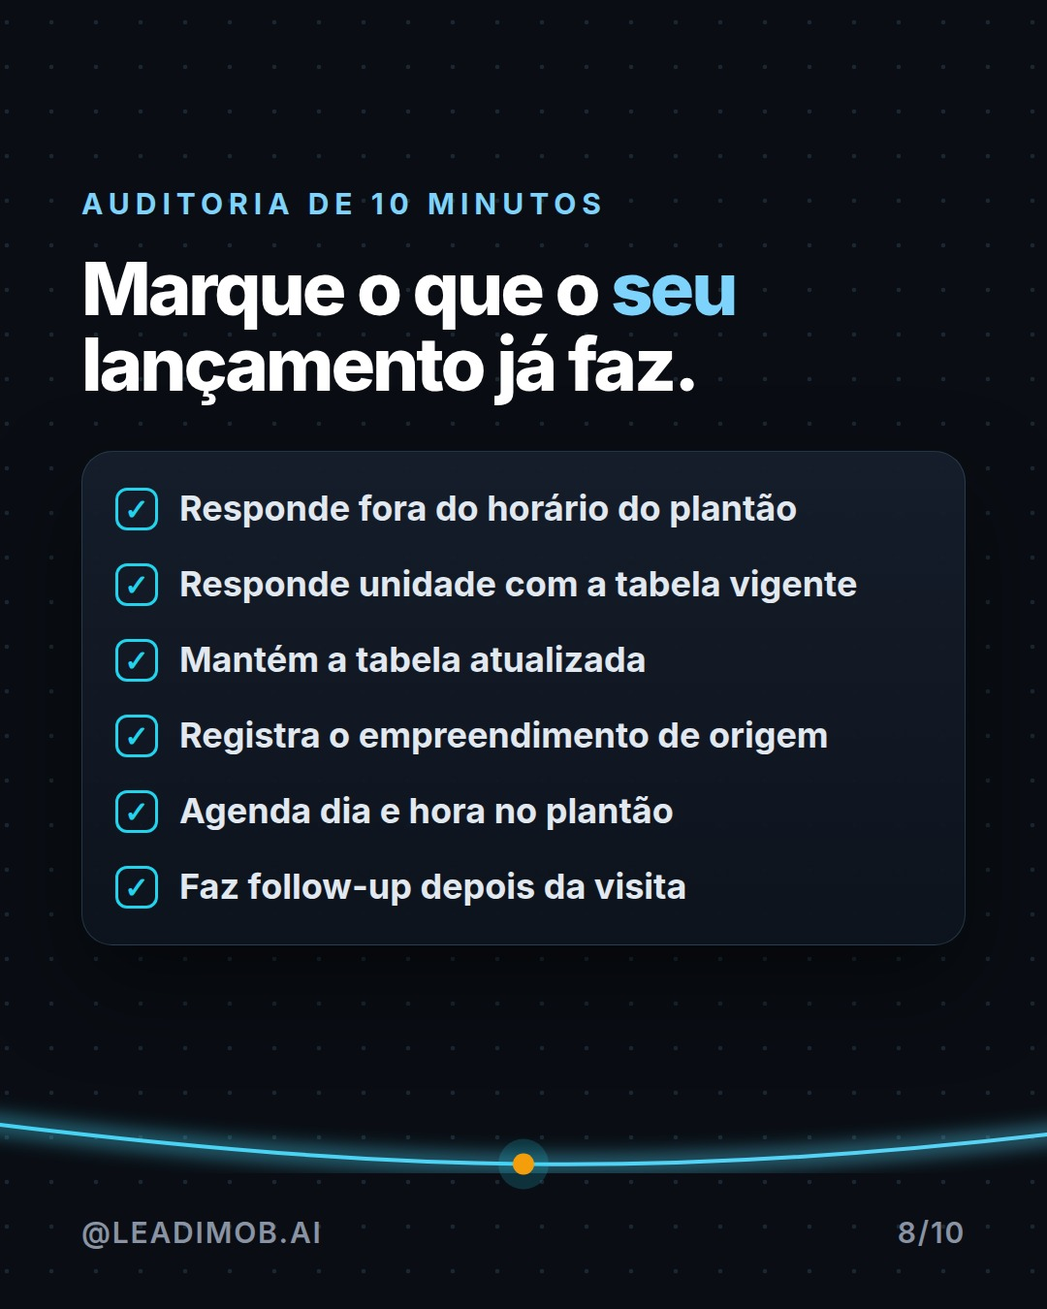
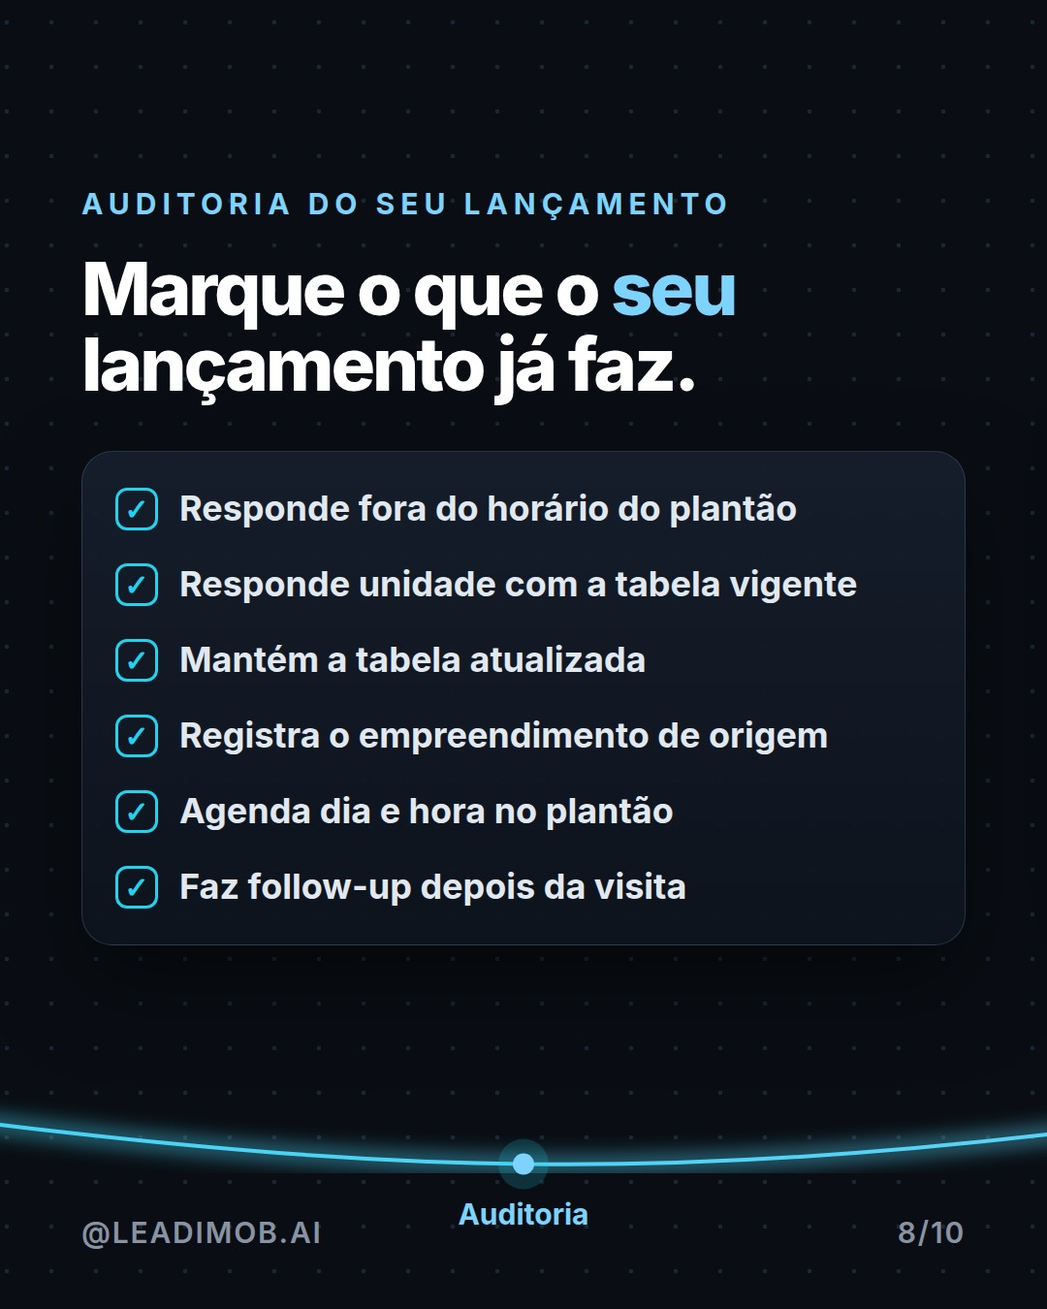
06/10: carrossel refeito com estrutura própria (parcial)
Claude-Session: https://claude.ai/code/session_018r7VijXCsT7Rsbfxa2wopL

Changed region(s): [[0.3667, 0.1244, 0.6417, 0.1867], [0.4278, 0.8711, 0.5806, 0.9333], [0.6722, 0.1244, 0.7028, 0.1867]]

diff --git a/instagram/2026-10-06/src/c1-index.html b/instagram/2026-10-06/src/c1-index.html
@@ -17,7 +17,7 @@ body{background:#0A0E14;width:10800px;height:1350px;overflow:hidden;font-family:
 .kick{font:700 30px/1 IN;letter-spacing:.2em;text-transform:uppercase;color:#7DD3FC}
 .h1{font:900 128px/0.96 IN;letter-spacing:-.055em}
 .h2{font:800 76px/1.02 IN;letter-spacing:-.04em}
-.p{font:500 38px/1.4 IN;color:#C9D2E0}
+.p{font:500 40px/1.38 IN;color:#C9D2E0}
 .ghost{position:absolute;font:900 520px/1 IN;letter-spacing:-.06em;color:transparent;-webkit-text-stroke:2px rgba(125,211,252,.16);right:40px;top:40px}
 .foot{position:absolute;left:84px;right:84px;bottom:64px;display:flex;justify-content:space-between;align-items:center;font:600 30px/1 IN;color:#8A93A3;letter-spacing:.06em}
 .card{background:linear-gradient(180deg,rgba(22,30,44,.96),rgba(14,20,30,.96));border:1px solid rgba(125,211,252,.18);border-radius:32px;box-shadow:0 40px 90px rgba(0,0,0,.5)}
@@ -43,6 +43,18 @@ body{background:#0A0E14;width:10800px;height:1350px;overflow:hidden;font-family:
 .row:last-child{border-bottom:0}.row span:first-child{color:#C9D2E0}
 .chk{display:flex;align-items:center;gap:22px;font:700 36px/1.2 IN;padding:17px 0;color:#E2E8F0}
 .chk b{flex:none;width:44px;height:44px;border-radius:12px;border:3px solid #22D3EE;display:flex;align-items:center;justify-content:center;color:#22D3EE;font:900 30px/1 IN}
+.col{flex:1;border-radius:28px;padding:26px 24px;background:#121a27;border:1px solid rgba(125,211,252,.16)}
+.col.ok{border-color:rgba(52,211,153,.55)}.col.bad{border-color:rgba(245,158,11,.55)}
+.lab{font:800 30px/1 IN;letter-spacing:.08em;text-transform:uppercase;margin-bottom:22px}
+.sm{border-radius:22px;padding:18px 22px 10px;font:500 32px/1.3 IN}
+.ex{font:700 30px/1 IN;letter-spacing:.14em;text-transform:uppercase;color:#8A93A3;margin-bottom:18px}
+.tag{display:inline-block;font:700 30px/1 IN;padding:10px 18px;border-radius:12px}
+.fld{display:flex;justify-content:space-between;align-items:center;font:600 34px/1 IN;padding:22px 0;border-bottom:1px solid rgba(255,255,255,.08)}
+.fld:last-child{border-bottom:0}
+.dash{border:2px dashed rgba(245,158,11,.7);color:#FBBF24;border-radius:12px;padding:10px 18px;font:700 30px/1 IN}
+.st{display:flex;align-items:center;gap:26px;padding:12px 0}.st+.st{border-top:1px solid rgba(255,255,255,.08)}
+.st .ic{flex:none;width:60px;height:60px;border-radius:20px;background:rgba(52,211,153,.14);border:2px solid rgba(52,211,153,.7);color:#6EE7B7;display:flex;align-items:center;justify-content:center;font:900 36px/1 IN}
+.st div:last-child{font:700 38px/1.2 IN}
 </style></head><body><div id="strip">
 <div class="bg"></div>
 <div class="glow" style="left:-300px;top:-400px;width:1400px;height:1400px;background:radial-gradient(circle,rgba(37,99,235,.30),transparent 62%)"></div>
@@ -61,74 +73,81 @@ body{background:#0A0E14;width:10800px;height:1350px;overflow:hidden;font-family:
 <div class="sl" style="left:0">
  <div class="kick">Lançamento · salve este post</div>
  <div class="h1" style="margin-top:56px">6 pontos<br>onde o lead<br><span class="hl">esfria</span>.</div>
- <div class="p" style="margin-top:44px;font-size:42px;color:#E2E8F0">No lançamento, a demanda chega junta. A atenção, não.</div>
- <div style="margin-top:70px;display:flex;gap:14px"><span class="chip cy" style="font-size:30px;padding:14px 22px">Quente</span><span style="width:40px;height:4px;background:#22D3EE;align-self:center"></span><span class="chip amb" style="font-size:30px;padding:14px 22px">Frio</span></div>
+ <div class="p" style="margin-top:44px;font-size:44px;color:#E2E8F0">No lançamento, a demanda chega junta. A atenção, não.</div>
+ <div style="margin-top:70px;display:flex;gap:14px;align-items:center"><span class="chip cy" style="font-size:30px;padding:14px 22px">Quente</span><span style="width:60px;height:4px;background:linear-gradient(90deg,#22D3EE,#F59E0B)"></span><span class="chip amb" style="font-size:30px;padding:14px 22px">Frio</span></div>
  <div class="foot"><span>@LEADIMOB.AI</span><span style="color:#7DD3FC">ARRASTE →</span></div>
 </div>
 <div class="sl" style="left:1080px"><div class="ghost">01</div>
  <div class="prog"><i class="cur"></i><i class=""></i><i class=""></i><i class=""></i><i class=""></i><i class=""></i></div><div class="ttl"><div class="num">01</div><div class="kick">O plantão fecha</div></div>
- <div class="h2">O plantão fechou no fim do dia. <span class="hl">O interesse, não.</span></div>
- <div class="card" style="margin-top:56px;padding:34px;background:#0B141A">
-  <div class="bub bin">Vi o lançamento agora à noite. Ainda tem unidade?<div class="bt">22:41</div></div>
-  <div class="bub bout" style="margin-top:20px;background:#2A2F33;color:#8A93A3">Sem resposta até o plantão abrir.<div class="bt">—</div></div>
- </div>
- <div class="p" style="margin-top:44px">Quem se interessa à noite não espera a manhã.</div>
+ <div class="h2" style="">Quando o plantão fecha, <span class="hl">o interesse continua</span>.</div>
+ <div style="margin-top:50px;display:flex;gap:20px">
+ <div class="col ok"><div class="lab" style="color:#6EE7B7">Plantão aberto</div>
+  <div class="sm bin">Ainda tem unidade?</div>
+  <div class="sm bout" style="margin-top:16px;margin-left:0">Tem sim! Posso te contar as opções.</div></div>
+ <div class="col bad"><div class="lab" style="color:#FBBF24">Plantão fechado</div>
+  <div class="sm bin">Ainda tem unidade?</div>
+  <div style="margin-top:22px;font:700 34px/1.3 IN;color:#FBBF24">Sem resposta até a manhã seguinte.</div></div>
+</div>
+ <div class="p" style="margin-top:44px">O lead que chama à noite não espera o plantão abrir.</div>
  <div class="foot"><span>@LEADIMOB.AI</span><span>2/10</span></div>
 </div>
 <div class="sl" style="left:2160px"><div class="ghost">02</div>
  <div class="prog"><i class="on"></i><i class="cur"></i><i class=""></i><i class=""></i><i class=""></i><i class=""></i></div><div class="ttl"><div class="num">02</div><div class="kick">A pergunta de unidade</div></div>
- <div class="h2">Perguntou por uma unidade e ouviu <span class="hl">"vou verificar"</span>.</div>
- <div class="card" style="margin-top:56px;padding:34px;background:#0B141A">
-  <div class="bub bin">A de dois dormitórios no andar alto ainda está disponível?<div class="bt">14:07</div></div>
-  <div class="bub bout" style="margin-top:20px">Vou confirmar com a equipe e te retorno.<div class="bt">14:30 ✓✓</div></div>
- </div>
- <div class="p" style="margin-top:44px">A resposta que não sai na hora vira outra conversa.</div>
+ <div class="h2" style="">A pergunta é simples. <span class="hl">A resposta demora.</span></div>
+ <div style="margin-top:46px"><div class="ex">Exemplo de mensagem</div>
+ <div class="bub bin" style="max-width:100%">A de dois dormitórios no andar alto ainda está disponível?</div>
+ <div style="display:flex;gap:18px;margin-top:22px">
+  <div class="col bad" style="padding:20px"><div class="lab" style="color:#FBBF24;font-size:30px;margin-bottom:14px">Esfria</div><div style="font:500 32px/1.3 IN">"Vou verificar com a equipe e retorno."</div></div>
+  <div class="col ok" style="padding:20px"><div class="lab" style="color:#6EE7B7;font-size:30px;margin-bottom:14px">Avança</div><div style="font:500 32px/1.3 IN">"Está disponível. Quer visitar o decorado?"</div></div>
+ </div></div>
+ <div class="p" style="margin-top:44px">Quem responde na hora com a informação certa fica com a conversa.</div>
  <div class="foot"><span>@LEADIMOB.AI</span><span>3/10</span></div>
 </div>
 <div class="sl" style="left:3240px"><div class="ghost">03</div>
  <div class="prog"><i class="on"></i><i class="on"></i><i class="cur"></i><i class=""></i><i class=""></i><i class=""></i></div><div class="ttl"><div class="num">03</div><div class="kick">A tabela desatualizada</div></div>
- <div class="h2">A planilha diz disponível. <span class="hl">A unidade já foi reservada.</span></div>
- <div class="card" style="margin-top:56px;padding:20px 34px">
-  <div class="row"><span>Tipo A · andar alto</span><span class="chip gr" style="font-size:30px;padding:12px 20px">Disponível</span></div>
-  <div class="row"><span>Tipo B · frente</span><span class="chip amb" style="font-size:30px;padding:12px 20px">Reservada</span></div>
-  <div class="row"><span>Cobertura</span><span class="chip cy" style="font-size:30px;padding:12px 20px">Disponível</span></div>
- </div>
- <div class="p" style="margin-top:44px">Oferecer o que não existe mais custa a confiança do lead.</div>
+ <div class="h2" style="">A tabela do cliente e a <span class="hl">tabela real</span> não batem.</div>
+ <div style="margin-top:50px;display:flex;gap:18px"><div class="col" style="border-color:#7DD3FC"><div class="lab" style="color:#7DD3FC;font-size:30px;margin-bottom:8px">Planilha de ontem</div><div class="row" style="font-size:32px;padding:18px 0"><span>Tipo A</span><span class="tag" style="background:rgba(52,211,153,.14);color:#6EE7B7">Livre</span></div><div class="row" style="font-size:32px;padding:18px 0"><span>Tipo B</span><span class="tag" style="background:rgba(52,211,153,.14);color:#6EE7B7">Livre</span></div><div class="row" style="font-size:32px;padding:18px 0"><span>Cobertura</span><span class="tag" style="background:rgba(52,211,153,.14);color:#6EE7B7">Livre</span></div></div><div class="col" style="border-color:#F59E0B"><div class="lab" style="color:#F59E0B;font-size:30px;margin-bottom:8px">Situação hoje</div><div class="row" style="font-size:32px;padding:18px 0"><span>Tipo A</span><span class="tag" style="background:rgba(52,211,153,.14);color:#6EE7B7">Livre</span></div><div class="row" style="font-size:32px;padding:18px 0"><span>Tipo B</span><span class="tag" style="background:rgba(245,158,11,.14);color:#FBBF24">Reservada</span></div><div class="row" style="font-size:32px;padding:18px 0"><span>Cobertura</span><span class="tag" style="background:rgba(245,158,11,.14);color:#FBBF24">Vendida</span></div></div></div>
+ <div class="p" style="margin-top:44px">Oferecer o que já saiu custa a confiança do lead.</div>
  <div class="foot"><span>@LEADIMOB.AI</span><span>4/10</span></div>
 </div>
 <div class="sl" style="left:4320px"><div class="ghost">04</div>
  <div class="prog"><i class="on"></i><i class="on"></i><i class="on"></i><i class="cur"></i><i class=""></i><i class=""></i></div><div class="ttl"><div class="num">04</div><div class="kick">A origem perdida</div></div>
- <div class="h2">Ninguém sabe <span class="hl">de qual empreendimento</span> ele veio.</div>
- <div class="card" style="margin-top:56px;padding:20px 34px">
-  <div class="row"><span style="color:#8A93A3">Empreendimento</span><span>— não registrado</span></div>
-  <div class="row"><span style="color:#8A93A3">Campanha</span><span>— não registrado</span></div>
-  <div class="row"><span style="color:#8A93A3">Próximo passo</span><span style="color:#FBBF24">— ninguém sabe</span></div>
+ <div class="h2" style="">Ninguém sabe <span class="hl">de qual empreendimento</span> ele veio.</div>
+ <div class="card" style="margin-top:50px;padding:10px 34px 14px">
+  <div style="display:flex;align-items:center;gap:20px;padding:20px 0;border-bottom:1px solid rgba(255,255,255,.1)"><div style="width:68px;height:68px;border-radius:50%;background:#1E3A8A;display:flex;align-items:center;justify-content:center;font:800 32px IN">L</div><div style="font:700 36px/1.1 IN">Lead · WhatsApp</div></div>
+  <div class="fld"><span style="color:#8A93A3">Empreendimento</span><span class="dash">sem registro</span></div>
+  <div class="fld"><span style="color:#8A93A3">Campanha</span><span class="dash">sem registro</span></div>
+  <div class="fld"><span style="color:#8A93A3">Próximo passo</span><span class="dash">sem registro</span></div>
  </div>
- <div class="p" style="margin-top:44px">Sem origem, a conversa começa do zero e o anúncio não se paga.</div>
+ <div class="p" style="margin-top:44px">Sem origem, o atendimento recomeça do zero e a campanha não se mede.</div>
  <div class="foot"><span>@LEADIMOB.AI</span><span>5/10</span></div>
 </div>
 <div class="sl" style="left:5400px"><div class="ghost">05</div>
  <div class="prog"><i class="on"></i><i class="on"></i><i class="on"></i><i class="on"></i><i class="cur"></i><i class=""></i></div><div class="ttl"><div class="num">05</div><div class="kick">O plantão sem agenda</div></div>
- <div class="h2">"Passo aí no plantão" <span class="hl">não é uma visita marcada</span>.</div>
- <div class="card" style="margin-top:56px;padding:34px">
-  <div class="kick" style="color:#8A93A3;font-size:30px">Troque por</div>
-  <div class="bub bout" style="margin-top:22px;max-width:100%">Tenho sábado às 10h ou domingo às 15h no plantão. Qual fica melhor?<div class="bt">✓✓</div></div>
- </div>
- <div class="p" style="margin-top:44px">Dia e horário no plantão, sempre combinados.</div>
+ <div class="h2" style="">"Passo aí" <span class="hl">não é uma visita marcada</span>.</div>
+ <div style="margin-top:50px"><div class="ex">Exemplo de agenda do plantão</div><div style="display:flex;gap:18px">
+ <div class="col" style="padding:22px"><div class="lab" style="font-size:30px;margin-bottom:16px;color:#C9D2E0">Sábado</div><div style="display:flex;flex-direction:column;gap:14px"><div style="padding:18px 0;border-radius:16px;text-align:center;font:700 32px/1 IN;border:2px dashed rgba(125,211,252,.3);color:#7C8799">livre</div><div style="padding:18px 0;border-radius:16px;text-align:center;font:700 32px/1 IN;background:rgba(52,211,153,.16);border:2px solid rgba(52,211,153,.8);color:#6EE7B7">Visita marcada</div><div style="padding:18px 0;border-radius:16px;text-align:center;font:700 32px/1 IN;border:2px dashed rgba(125,211,252,.3);color:#7C8799">livre</div></div></div>
+ <div class="col" style="padding:22px"><div class="lab" style="font-size:30px;margin-bottom:16px;color:#C9D2E0">Domingo</div><div style="display:flex;flex-direction:column;gap:14px"><div style="padding:18px 0;border-radius:16px;text-align:center;font:700 32px/1 IN;border:2px dashed rgba(125,211,252,.3);color:#7C8799">livre</div><div style="padding:18px 0;border-radius:16px;text-align:center;font:700 32px/1 IN;border:2px dashed rgba(125,211,252,.3);color:#7C8799">livre</div><div style="padding:18px 0;border-radius:16px;text-align:center;font:700 32px/1 IN;border:2px dashed rgba(125,211,252,.3);color:#7C8799">livre</div></div></div>
+</div></div>
+ <div class="p" style="margin-top:44px">Proponha dia e horário no plantão e deixe registrado.</div>
  <div class="foot"><span>@LEADIMOB.AI</span><span>6/10</span></div>
 </div>
 <div class="sl" style="left:6480px"><div class="ghost">06</div>
- <div class="prog"><i class="on"></i><i class="on"></i><i class="on"></i><i class="on"></i><i class="on"></i><i class="cur"></i></div><div class="ttl"><div class="num">06</div><div class="kick">O silêncio depois do plantão</div></div>
- <div class="h2">Visitou, saiu animado e <span class="hl">ninguém voltou a falar</span>.</div>
- <div style="margin-top:60px;display:flex;align-items:center;gap:16px">
-  <span class="chip cy" style="font-size:30px;padding:18px 20px">Dia 0 · visita</span><span style="width:24px;height:4px;background:#22D3EE;flex:none"></span><span class="chip cy" style="font-size:30px;padding:18px 20px">Dia 1 · retorno</span><span style="width:24px;height:4px;background:#22D3EE;flex:none"></span><span class="chip gr" style="font-size:30px;padding:18px 20px">Novidade</span>
- </div>
+ <div class="prog"><i class="on"></i><i class="on"></i><i class="on"></i><i class="on"></i><i class="on"></i><i class="cur"></i></div><div class="ttl"><div class="num">06</div><div class="kick">O silêncio depois da visita</div></div>
+ <div class="h2" style="">Visitou, saiu animado e <span class="hl">ninguém voltou a falar</span>.</div>
+ <div style="margin-top:56px;position:relative;height:300px">
+ <div style="position:absolute;left:30px;right:30px;top:60px;height:6px;background:linear-gradient(90deg,#22D3EE 0 62%,rgba(245,158,11,.0) 62%);border-bottom:0"></div>
+ <div style="position:absolute;left:62%;right:30px;top:61px;border-top:4px dashed rgba(245,158,11,.7)"></div>
+ <div style="position:absolute;left:0;top:34px;display:flex;flex-direction:column;align-items:flex-start;width:230px"><span style="width:58px;height:58px;border-radius:50%;background:#22D3EE;display:block"></span><span style="font:700 34px/1.2 IN;margin-top:20px">Visita</span><span style="font:500 30px/1.2 IN;color:#8A93A3;margin-top:6px">no plantão</span></div>
+ <div style="position:absolute;left:310px;top:34px;width:260px"><span style="width:58px;height:58px;border-radius:50%;background:#34D399;display:block"></span><span style="font:700 34px/1.2 IN;margin-top:20px;display:block">Retorno</span><span style="font:500 30px/1.2 IN;color:#8A93A3;margin-top:6px;display:block">no dia seguinte</span></div>
+ <div style="position:absolute;right:0;top:34px;width:260px;text-align:right;display:flex;flex-direction:column;align-items:flex-end"><span style="width:58px;height:58px;border-radius:50%;border:4px dashed #F59E0B;display:block"></span><span style="font:700 34px/1.2 IN;margin-top:20px;color:#FBBF24">Novidade</span><span style="font:500 30px/1.2 IN;color:#8A93A3;margin-top:6px">ninguém enviou</span></div>
+</div>
  <div class="p" style="margin-top:44px">Follow-up que depende de memória não acontece.</div>
  <div class="foot"><span>@LEADIMOB.AI</span><span>7/10</span></div>
 </div>
 <!-- 8 -->
 <div class="sl" style="left:7560px">
- <div class="kick">Auditoria de 10 minutos</div>
+ <div class="kick">Auditoria do seu lançamento</div>
  <div class="h2" style="margin-top:34px">Marque o que o <span class="hl">seu</span> lançamento já faz.</div>
  <div class="card" style="margin-top:50px;padding:20px 34px">
   <div class="chk"><b>✓</b>Responde fora do horário do plantão</div>
@@ -143,10 +162,11 @@ body{background:#0A0E14;width:10800px;height:1350px;overflow:hidden;font-family:
 <!-- 9 -->
 <div class="sl" style="left:8640px">
  <div class="kick">Onde a Leadimob entra</div>
- <div class="h1" style="margin-top:40px;font-size:112px">O lead<br>não esfriou.</div>
- <div class="h1" style="font-size:112px;margin-top:10px"><span class="hl">O processo</span><br>atrasou.</div>
- <div class="p" style="margin-top:48px">A Leadimob atende cada lead no WhatsApp sabendo de qual empreendimento veio, consulta as unidades e a tabela vigente, agenda a visita no plantão e faz o follow-up.</div>
- <div style="margin-top:36px"><span class="chip cy" style="font-size:30px;padding:14px 22px">Modo incorporador</span></div>
+ <div class="h2" style="margin-top:34px">Cada ponto, <span style="color:#6EE7B7">coberto</span> no WhatsApp.</div>
+ <div class="card" style="margin-top:44px;padding:10px 34px">
+  <div class="st"><div class="ic">1</div><div>Atende na hora, também à noite</div></div><div class="st"><div class="ic">2</div><div>Sabe de qual empreendimento o lead veio</div></div><div class="st"><div class="ic">3</div><div>Consulta unidades e tabela vigente</div></div><div class="st"><div class="ic">4</div><div>Agenda a visita no plantão</div></div><div class="st"><div class="ic">5</div><div>Faz o follow-up depois da visita</div></div>
+ </div>
+ <div class="p" style="margin-top:36px;font-size:34px">É o modo incorporador da Leadimob, feito para lançamentos.</div>
  <div class="foot"><span>@LEADIMOB.AI</span><span>9/10</span></div>
 </div>
 <!-- 10 CTA -->
@@ -166,7 +186,8 @@ body{background:#0A0E14;width:10800px;height:1350px;overflow:hidden;font-family:
 // station dots on the line at each slide center
 const p=document.getElementById('jp');const L=p.getTotalLength();let g='';
 for(let i=0;i<10;i++){const x=540+i*1080;let lo=0,hi=L;for(let k=0;k<40;k++){const m=(lo+hi)/2;if(p.getPointAtLength(m).x<x)lo=m;else hi=m}const pt=p.getPointAtLength(lo);
- g+=`<circle cx="${pt.x}" cy="${pt.y}" r="26" fill="rgba(34,211,238,.18)"/><circle cx="${pt.x}" cy="${pt.y}" r="11" fill="${i>=1&&i<=7?'#F59E0B':'#7DD3FC'}"/>`}
+ const labs=['','Noite','Pergunta','Tabela','Origem','Agenda','Retorno','Auditoria','Solução',''];const col=i=>i>=1&&i<=6?'#F59E0B':i>=8&&i<=8?'#34D399':'#7DD3FC';
+ g+=`<circle cx="${pt.x}" cy="${pt.y}" r="26" fill="rgba(34,211,238,.18)"/><circle cx="${pt.x}" cy="${pt.y}" r="11" fill="${col(i)}"/>`+(labs[i]?`<text x="${pt.x}" y="${pt.y+62}" text-anchor="middle" font-family="IN" font-weight="700" font-size="30" fill="${col(i)}">${labs[i]}</text>`:'')}
 document.getElementById('dots').innerHTML=g;
 window.ready=document.fonts.ready.then(()=>Promise.all(['400 20px IN','500 20px IN','700 20px IN','800 20px IN','900 20px IN'].map(f=>document.fonts.load(f))));
 </script></body></html>

diff --git a/instagram/2026-10-06/carrossel/carrossel-editor.html b/instagram/2026-10-06/carrossel/carrossel-editor.html
@@ -312,7 +312,7 @@ input[type=range]{width:100%;accent-color:#6C5CE7;height:18px;cursor:pointer;}
     </div>
   </div>
 </div>
-<script id="deck-data" type="application/json">{"kit": "tech", "formato": "4:5", "paleta": {"bg": "#0A0E14", "fg": "#FFFFFF", "muted": "#8A93A3", "accent": "#22D3EE", "surface": "#141B28", "cream": "#F3F7FB"}, "handle": "@leadimob.ai", "slides": [{"tipo": "capa", "kicker": "LANÇAMENTO · SALVE ESTE POST", "titulo": "6 pontos onde o lead esfria.", "sub": "No lançamento, a demanda chega junta. A atenção, não."}, {"tipo": "passo", "titulo": "1 · O plantão fechou no fim do dia. O interesse, não.", "corpo": "Quem se interessa à noite não espera a manhã.", "ghost": "01"}, {"tipo": "passo", "titulo": "2 · Perguntou por uma unidade e ouviu \"vou verificar\".", "corpo": "A resposta que não sai na hora vira outra conversa.", "ghost": "02"}, {"tipo": "passo", "titulo": "3 · A planilha diz disponível. A unidade já foi reservada.", "corpo": "Oferecer o que não existe mais custa a confiança do lead.", "ghost": "03"}, {"tipo": "passo", "titulo": "4 · Ninguém sabe de qual empreendimento ele veio.", "corpo": "Sem origem, a conversa começa do zero.", "ghost": "04"}, {"tipo": "passo", "titulo": "5 · \"Passo aí no plantão\" não é uma visita marcada.", "corpo": "Proponha dia e horário.", "ghost": "05"}, {"tipo": "passo", "titulo": "6 · Visitou e ninguém voltou a falar.", "corpo": "Follow-up que depende de memória não acontece.", "ghost": "06"}, {"tipo": "lista", "titulo": "Auditoria de 10 minutos", "itens": ["Responde fora do horário do plantão", "Responde unidade com a tabela vigente", "Mantém a tabela atualizada", "Registra o empreendimento de origem", "Agenda dia e hora no plantão", "Faz follow-up depois da visita"]}, {"tipo": "passo", "titulo": "O lead não esfriou. O processo atrasou.", "corpo": "A Leadimob atende cada lead no WhatsApp sabendo de qual empreendimento veio, consulta unidades e tabela vigente, agenda a visita no plantão e faz o follow-up. Modo incorporador."}, {"tipo": "cta", "titulo": "Quer ver em qual dos 6 pontos o seu lead esfria?", "acao": "Comente DIAGNÓSTICO", "sub": "E receba o checklist Onde seus leads estão morrendo."}]}</script>
+<script id="deck-data" type="application/json">{"kit": "tech", "formato": "4:5", "paleta": {"bg": "#0A0E14", "fg": "#FFFFFF", "muted": "#8A93A3", "accent": "#22D3EE", "surface": "#141B28", "cream": "#F3F7FB"}, "handle": "@leadimob.ai", "slides": [{"tipo": "capa", "kicker": "LANÇAMENTO · SALVE ESTE POST", "titulo": "6 pontos onde o lead esfria.", "sub": "No lançamento, a demanda chega junta. A atenção, não."}, {"tipo": "passo", "titulo": "1 · Quando o plantão fecha, o interesse continua.", "corpo": "O lead que chama à noite não espera o plantão abrir.", "ghost": "01"}, {"tipo": "passo", "titulo": "2 · A pergunta é simples. A resposta demora.", "corpo": "Responder na hora com a informação certa mantém a conversa.", "ghost": "02"}, {"tipo": "passo", "titulo": "3 · A tabela do cliente e a tabela real não batem.", "corpo": "Oferecer o que já saiu custa a confiança do lead.", "ghost": "03"}, {"tipo": "passo", "titulo": "4 · Ninguém sabe de qual empreendimento ele veio.", "corpo": "Sem origem, o atendimento recomeça do zero e a campanha não se mede.", "ghost": "04"}, {"tipo": "passo", "titulo": "5 · \"Passo aí\" não é uma visita marcada.", "corpo": "Proponha dia e horário no plantão e deixe registrado.", "ghost": "05"}, {"tipo": "passo", "titulo": "6 · Visitou e ninguém voltou a falar.", "corpo": "Follow-up que depende de memória não acontece.", "ghost": "06"}, {"tipo": "lista", "titulo": "Auditoria do seu lançamento", "itens": ["Responde fora do horário do plantão", "Responde unidade com a tabela vigente", "Mantém a tabela atualizada", "Registra o empreendimento de origem", "Agenda dia e hora no plantão", "Faz follow-up depois da visita"]}, {"tipo": "passo", "titulo": "Cada ponto, coberto no WhatsApp.", "corpo": "Atende na hora, sabe de qual empreendimento o lead veio, consulta unidades e tabela vigente, agenda a visita no plantão e faz o follow-up. É o modo incorporador da Leadimob, feito para lançamentos."}, {"tipo": "cta", "titulo": "Quer ver em qual dos 6 pontos o seu lead esfria?", "acao": "Comente DIAGNÓSTICO", "sub": "E receba o checklist Onde seus leads estão morrendo."}]}</script>
 <script>
 const KITS = {
   "editorial":     {disp:"Anton", body:"Inter", mono:"JetBrains Mono", serif:"Instrument Serif",
